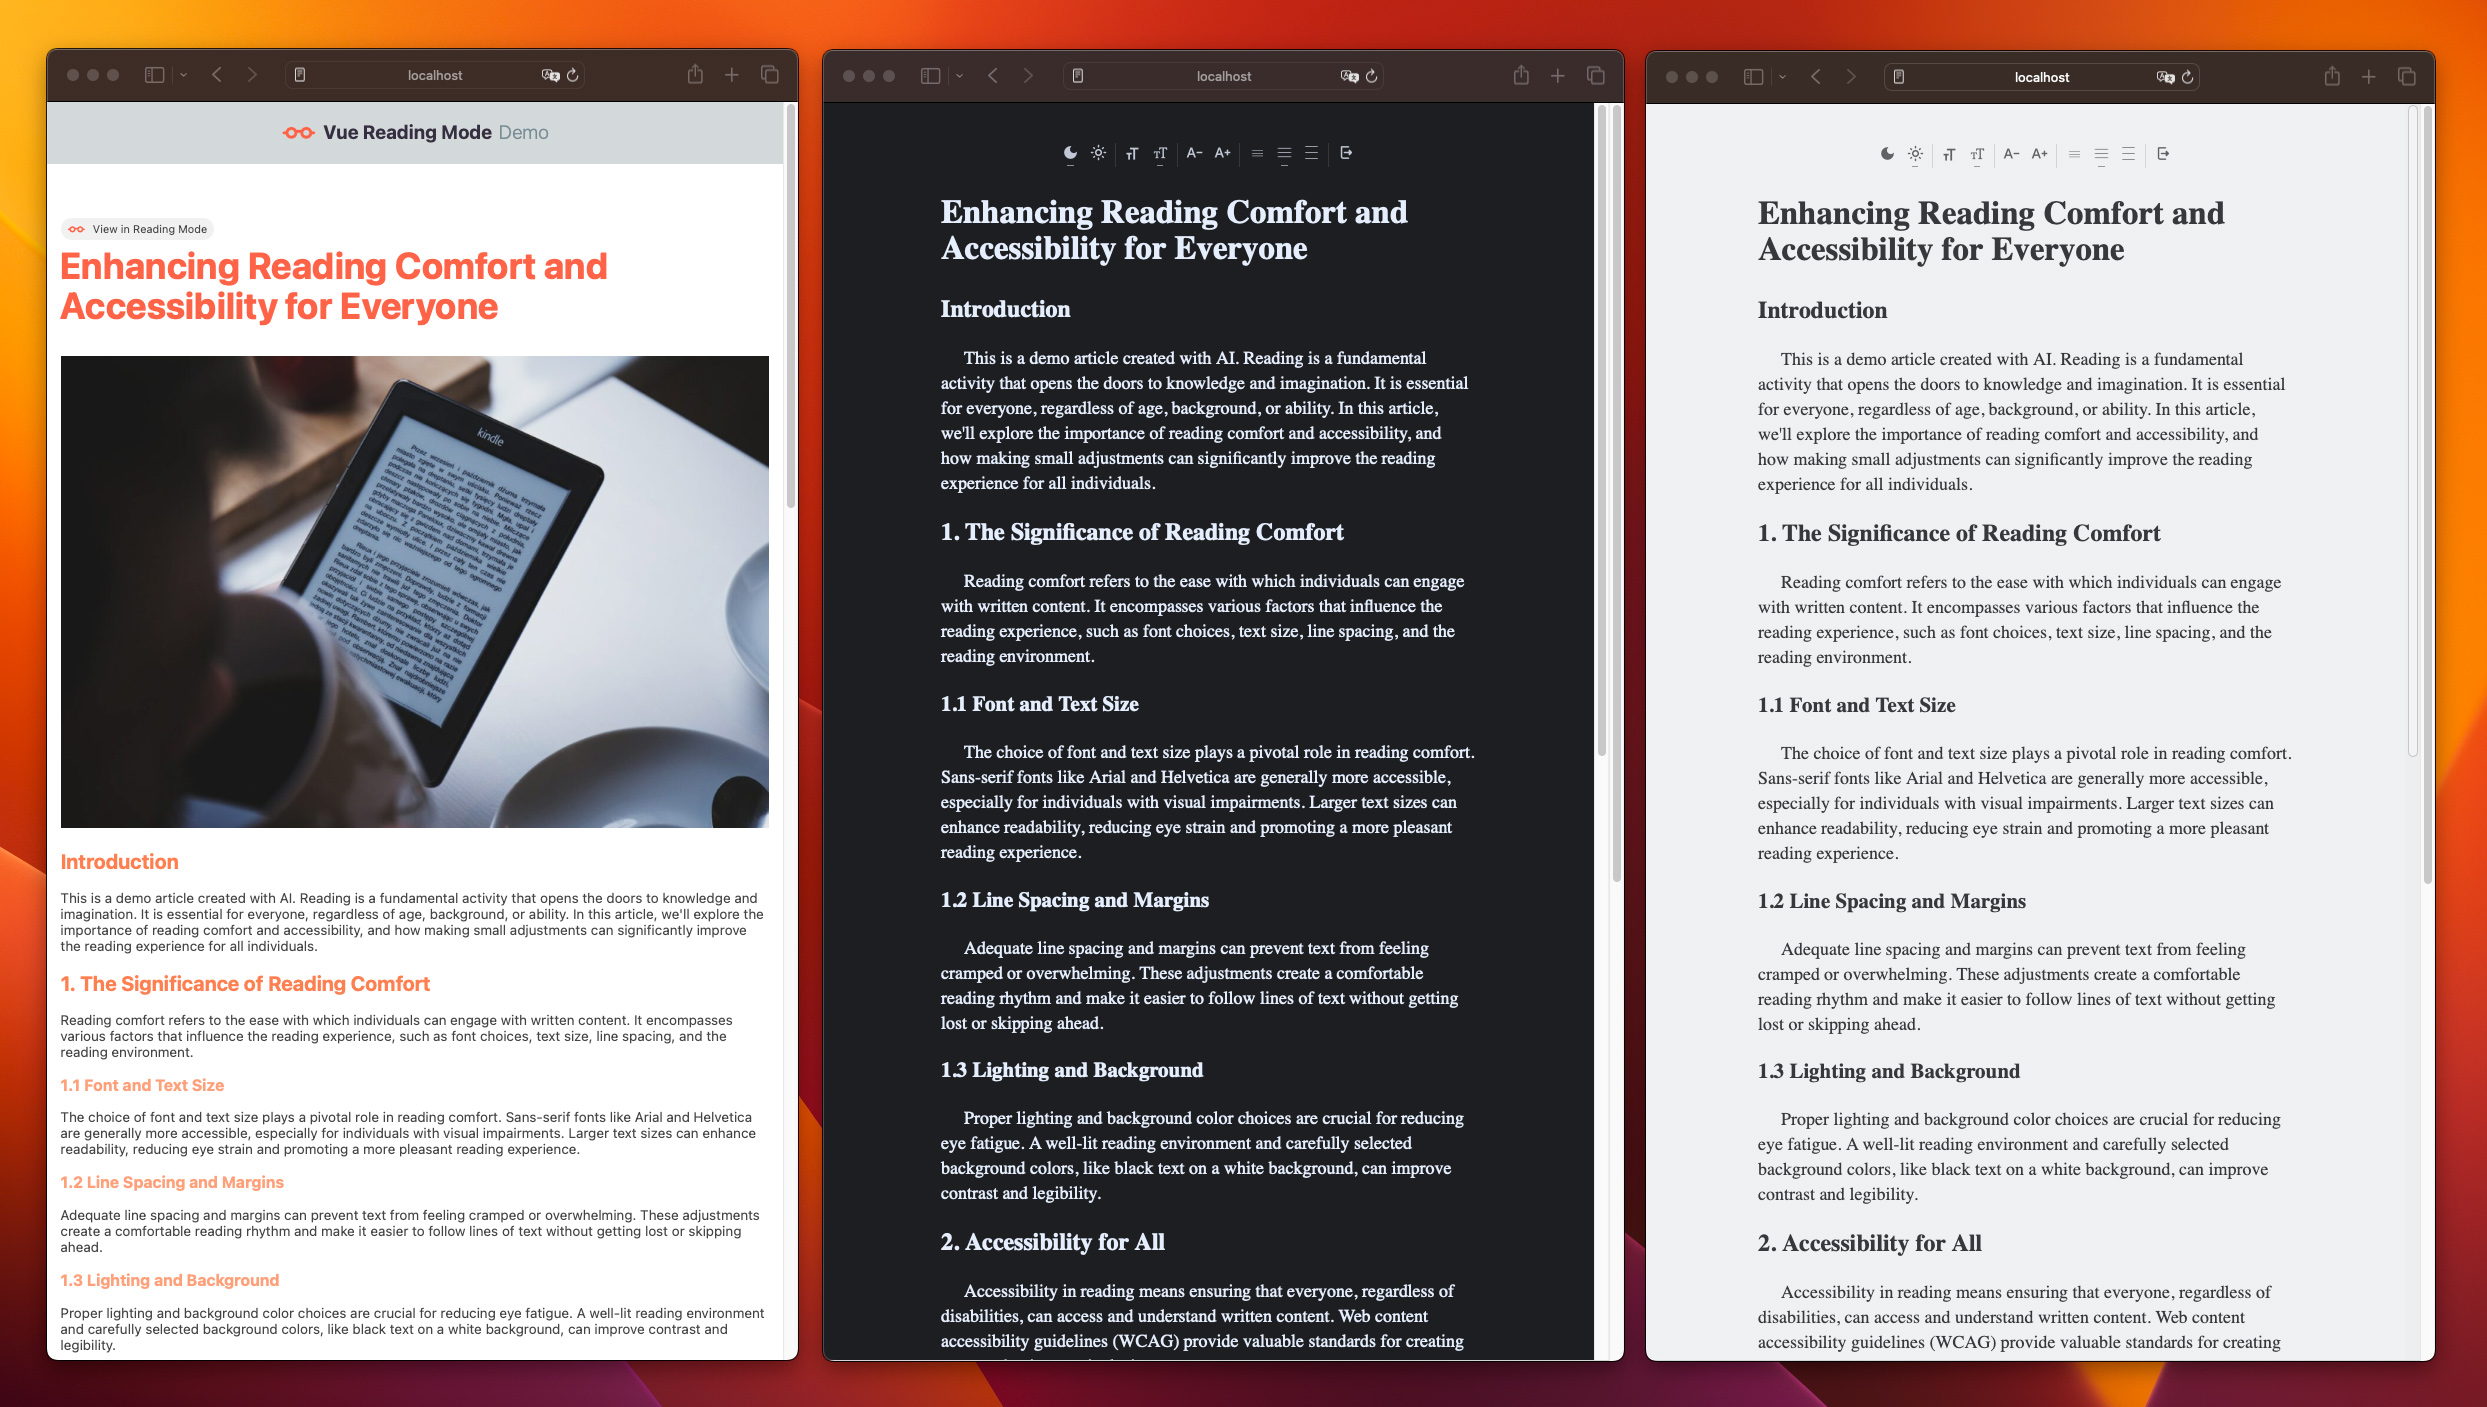
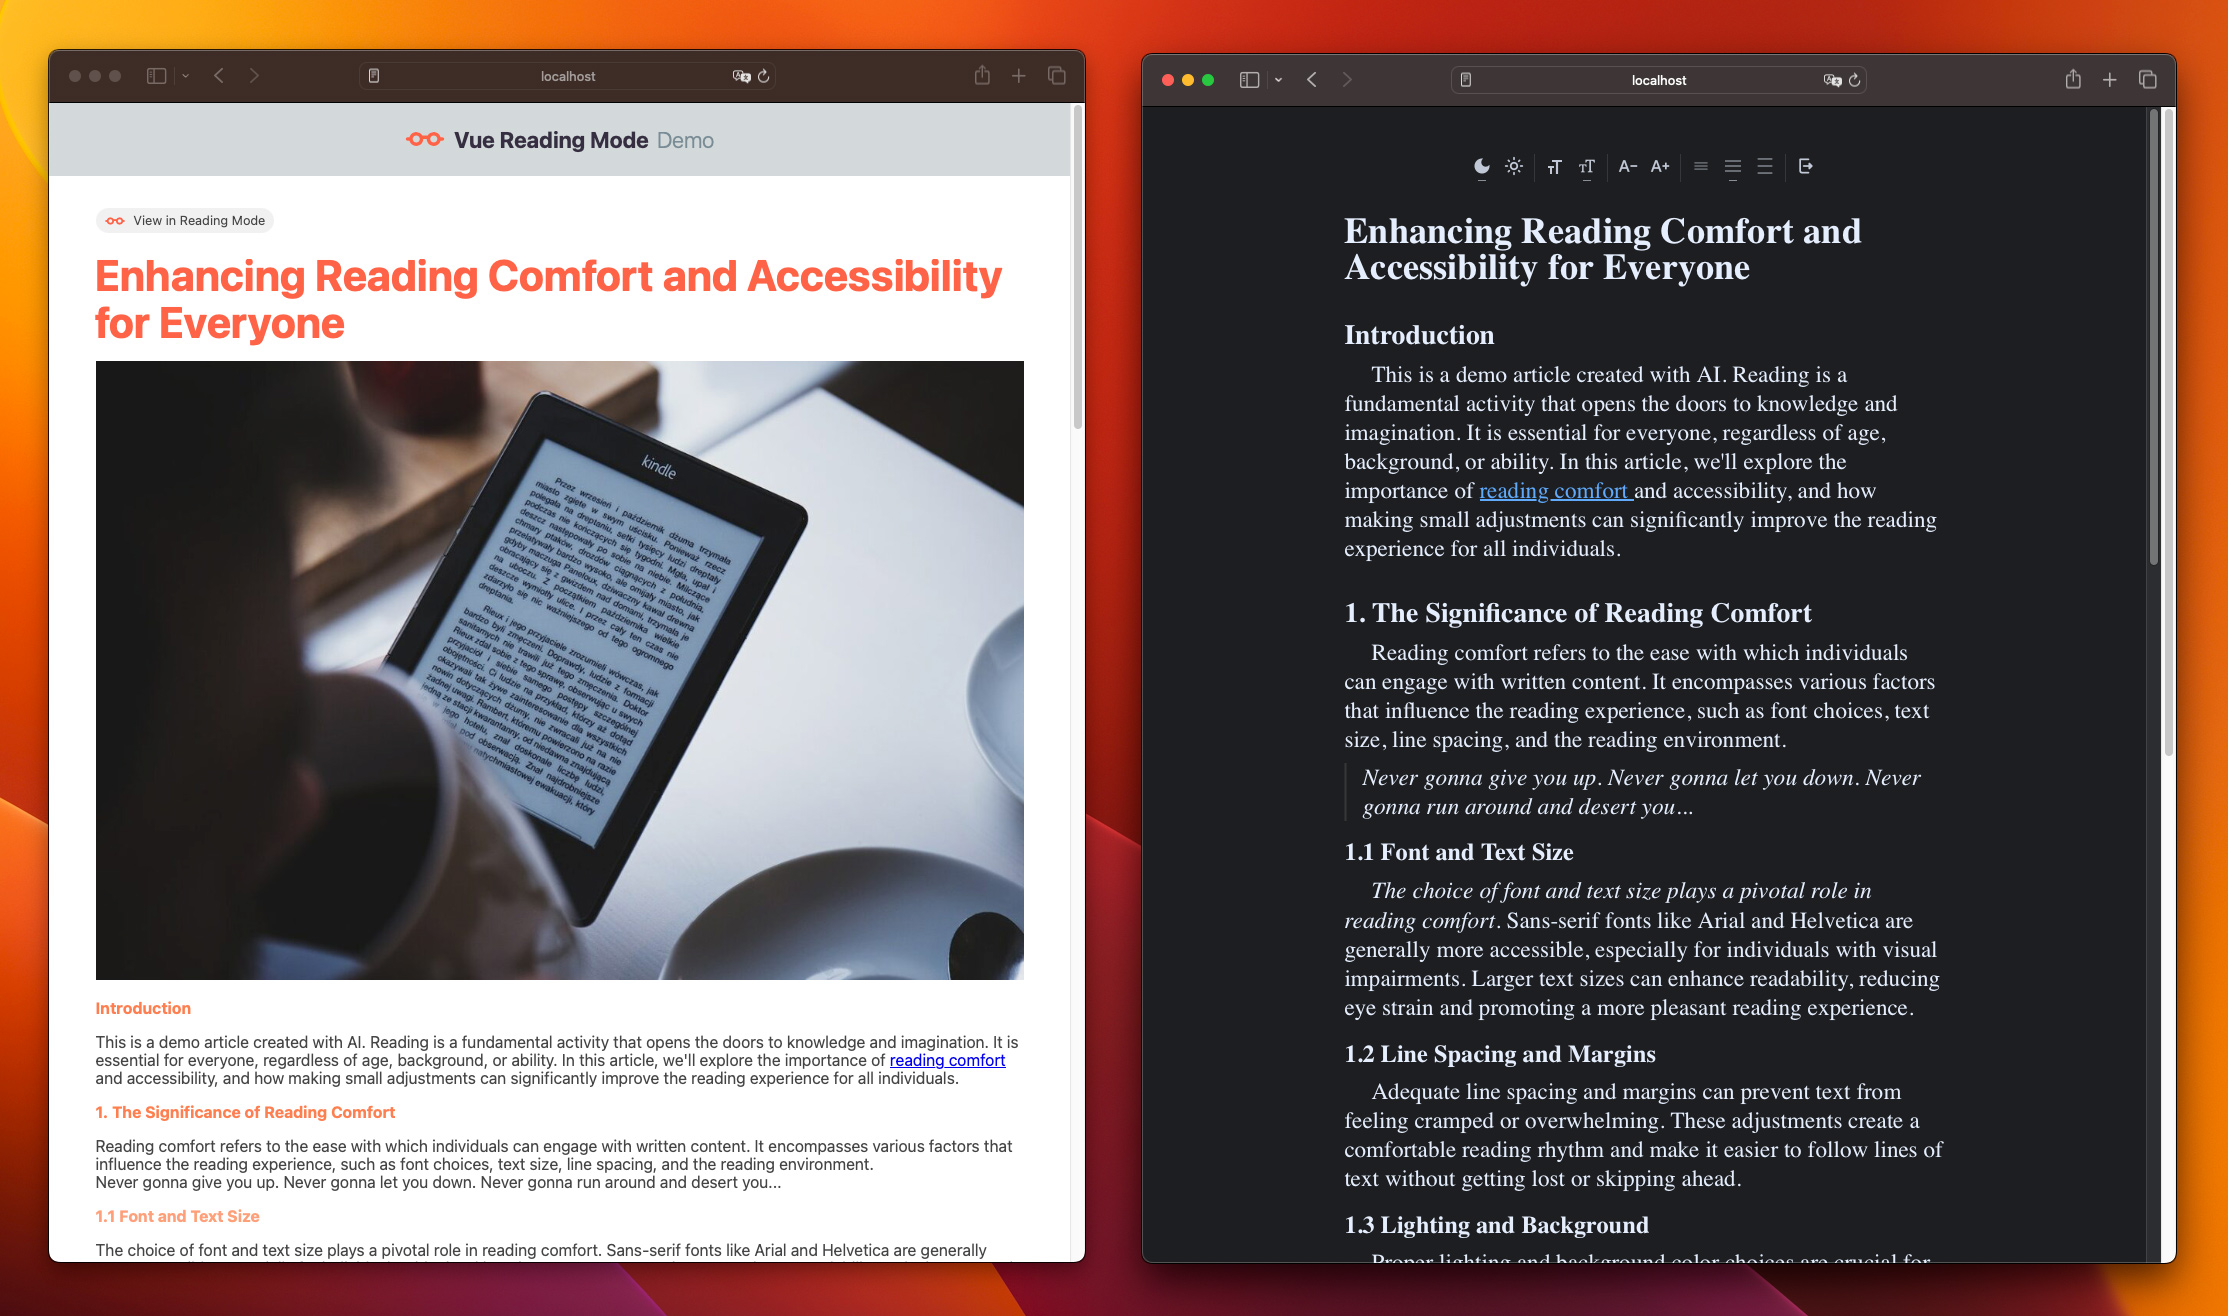
tiny adjustments

diff --git a/src/components/vueReadingMode.vue b/src/components/vueReadingMode.vue
@@ -52,15 +52,19 @@
                 <svg v-if="!fullscreen" xmlns="http://www.w3.org/2000/svg" width="20" height="20" viewBox="0 0 20 20"><path fill="currentColor" d="M7 2H2v5l1.8-1.8L6.5 8L8 6.5L5.2 3.8L7 2zm6 0l1.8 1.8L12 6.5L13.5 8l2.7-2.7L18 7V2h-5zm.5 10L12 13.5l2.7 2.7L13 18h5v-5l-1.8 1.8l-2.7-2.8zm-7 0l-2.7 2.7L2 13v5h5l-1.8-1.8L8 13.5L6.5 12z"/></svg>
                 <svg v-if="fullscreen" xmlns="http://www.w3.org/2000/svg" width="20" height="20" viewBox="0 0 20 20"><path fill="currentColor" d="M3.4 2L2 3.4l2.8 2.8L3 8h5V3L6.2 4.8L3.4 2zm11.8 4.2L18 3.4L16.6 2l-2.8 2.8L12 3v5h5l-1.8-1.8zM4.8 13.8L2 16.6L3.4 18l2.8-2.8L8 17v-5H3l1.8 1.8zM17 12h-5v5l1.8-1.8l2.8 2.8l1.4-1.4l-2.8-2.8L17 12z"/></svg>
             </div>-->
-            <div @click="readingModeToggle()"
-            :class="{'reader-mode--toggle': !readingmode}">
+            <div @click="readingModeToggle()">
                 <svg v-if="readingmode" xmlns="http://www.w3.org/2000/svg" width="20" height="20" viewBox="0 0 24 24"><path fill="currentColor" fill-rule="evenodd" d="M15 3.001a1 1 0 1 1 0 2H6v13a1 1 0 0 0 1 1h8a1 1 0 1 1 0 2H7a3 3 0 0 1-3-3v-14a1 1 0 0 1 1-1h10Zm1.707 5.293A1 1 0 0 0 15 9v2H9a1 1 0 1 0 0 2h6v2a1 1 0 0 0 1.707.707l3-3a1 1 0 0 0 0-1.414l-3-3Z" clip-rule="evenodd"/></svg>
-                <svg v-if="!readingmode" style="color:tomato" xmlns="http://www.w3.org/2000/svg" width="24" height="24" viewBox="0 0 24 24"><path fill="currentColor" fill-rule="evenodd" d="M7 14a2 2 0 1 0 0-4a2 2 0 0 0 0 4Zm3.465-4a4.002 4.002 0 0 0-7.339 1H2a1 1 0 1 0 0 2h1.126A4.002 4.002 0 0 0 11 12h2a4 4 0 0 0 7.874 1H22a1 1 0 1 0 0-2h-1.126a4.002 4.002 0 0 0-7.339-1h-3.07ZM15 12a2 2 0 1 0 4 0a2 2 0 0 0-4 0Z" clip-rule="evenodd"/></svg>
-                <p v-if="!readingmode">View in Reading Mode</p>
             </div>
         </nav>
         <article>
-            <slot/>
+            <div @click="readingModeToggle()"
+            :class="{'reader-mode--toggle': !readingmode}">
+                <svg v-if="!readingmode" style="color:tomato" xmlns="http://www.w3.org/2000/svg" width="24" height="24" viewBox="0 0 24 24"><path fill="currentColor" fill-rule="evenodd" d="M7 14a2 2 0 1 0 0-4a2 2 0 0 0 0 4Zm3.465-4a4.002 4.002 0 0 0-7.339 1H2a1 1 0 1 0 0 2h1.126A4.002 4.002 0 0 0 11 12h2a4 4 0 0 0 7.874 1H22a1 1 0 1 0 0-2h-1.126a4.002 4.002 0 0 0-7.339-1h-3.07ZM15 12a2 2 0 1 0 4 0a2 2 0 0 0-4 0Z" clip-rule="evenodd"/></svg>
+                <p v-if="!readingmode">View in Reading Mode</p>
+            </div>
+            <!-- Main Content -->
+                <slot/> 
+            <!-- Main Content -->
         </article>
         <nav class="reader-mode--nav">
             <div @click="readingModeToggle()"
@@ -77,7 +81,7 @@
             return {
                 readingmode: false,
                 fontFamily:"serif",
-                theme: "light",
+                theme: "dark",
                 fontsize: 1,
                 widthMultiplier: 1,
                 lineHeight: 1.4,
@@ -138,7 +142,7 @@
     min-width: 300px;
     
     font-size: calc(var(--vrm-font-size) * var(--vrm-font-multiplier)) !important;
-    font-family: var(--vrm-font-family);
+    font-family: var(--vrm-font-family) !important;
     font-size-adjust: .5;
     font-synthesis: none;
     text-rendering: optimizeLegibility;
@@ -152,7 +156,7 @@
     margin:0 !important;
     padding:3rem 2rem !important;
 
-    z-index: 999999999;
+    z-index: 999999999 !important;
     overflow-y: auto;
     
     display: flex !important;
@@ -164,6 +168,7 @@
     max-width: calc(599px * var(--vrm-width-multiplier) )!important;
     height: auto;
     position: static !important;
+    border-bottom:1px dashed #999 !important;
 }
 @media screen and (width < 600px) {
     .reader-mode {
@@ -195,21 +200,20 @@
 .reader-mode--light a, .reader-mode--light a:hover {
   font-weight: 500;
   color: #1673d7 !important;
-  text-decoration: underline;
+  text-decoration: underline !important;
 }
 
 /* Fullscreen Mode */
 .reader-mode--fullscreen {
     position: fixed !important;
-    inset: 0;
-    z-index: 999999999;
-    overflow-y: scroll;
+    inset: 0 !important;
+    z-index: 999999999 !important;
+    overflow-y: scroll !important;
 }
 
 /* Reading Mode Toggle */
 .reader-mode--toggle {
-    position: absolute !important;
-    margin-top:-2rem ;
+    margin-top: 2rem;
     padding: .1rem .5rem;
     display: inline-flex;
     align-items: center;
@@ -234,19 +238,22 @@
 
 /* Element options */
 .reader-mode p {
-    text-indent: 1.7rem;
+    text-indent: 1.7rem !important;
 }
 .reader-mode * :not(h1, h2, h3, h4, h5, h6) {
     font-size: calc(1.3rem * var(--vrm-font-multiplier)) !important
 }
 .reader-mode h1 {
-    font-size: calc(2.1rem * var(--vrm-font-multiplier)) !important
+    font-size: calc(2.1rem * var(--vrm-font-multiplier)) !important;
+    margin:2rem 0 1rem 0 !important;
 }
 .reader-mode h2 {
-    font-size: calc(1.6rem * var(--vrm-font-multiplier)) !important
+    font-size: calc(1.6rem * var(--vrm-font-multiplier)) !important;
+    margin:2rem 0 .5rem 0 !important;
 }
 .reader-mode h3, .reader-mode h4,.reader-mode h5,.reader-mode h6 {
-    font-size: calc(1.4rem * var(--vrm-font-multiplier)) !important
+    font-size: calc(1.4rem * var(--vrm-font-multiplier)) !important;
+    margin:1rem 0 .5rem 0 !important;
 }
 .reader-mode img, picture, video, audio, source, canvas,
              form, input, textarea, select, button, search,
@@ -259,11 +266,9 @@
     overflow:auto !important;
 }
 
-
 /* Navigation */
 .reader-mode .reader-mode--nav {
     position: relative !important;
-    top:0;
     display: flex;
     flex-direction: row;
     gap: .5rem;
@@ -306,4 +311,20 @@
     margin: 0;
     background: #77777740 !important;
 }
+
+/* Other adjustments */
+.reader-mode ol, ul {
+    padding-left:2rem !important;
+    margin: 1rem 0 !important
+}
+.reader-mode ul {list-style:disc !important;}
+.reader-mode ol {list-style:decimal !important;}
+.reader-mode blockquote{
+    border-left:.15rem solid #66666650 !important;
+    margin: .5rem 0 !important;
+    padding:0 1rem !important;
+    font-style: italic !important;
+    position: relative;
+}
+.reader-mode q {font-style: italic !important;}
 </style>

diff --git a/src/App.vue b/src/App.vue
@@ -6,12 +6,23 @@
   </header>
   <main>
     <vue-reading-mode>
-        <testarticle2></testarticle2>
-      </vue-reading-mode>
+      <testarticle2></testarticle2>
+    </vue-reading-mode>
 
-      <vue-reading-mode>
-        <testarticle></testarticle>
-      </vue-reading-mode>
+    <vue-reading-mode>
+      <testarticle></testarticle>
+    </vue-reading-mode>
+
+    <div class="copyright">
+      <a href="https://github.com/BoraKucukkara/vue-reading-mode" title="Bora Kucukkara / vue-reading-mode on Github">
+        <svg height="24" aria-hidden="true" viewBox="0 0 16 16" version="1.1" width="24" data-view-component="true" class="octicon octicon-mark-github v-align-middle">
+          <path fill-rule="evenodd" d="M8 0C3.58 0 0 3.58 0 8c0 3.54 2.29 6.53 5.47 7.59.4.07.55-.17.55-.38 0-.19-.01-.82-.01-1.49-2.01.37-2.53-.49-2.69-.94-.09-.23-.48-.94-.82-1.13-.28-.15-.68-.52-.01-.53.63-.01 1.08.58 1.23.82.72 1.21 1.87.87 2.33.66.07-.52.28-.87.51-1.07-1.78-.2-3.64-.89-3.64-3.95 0-.87.31-1.59.82-2.15-.08-.2-.36-1.02.08-2.12 0 0 .67-.21 2.2.82.64-.18 1.32-.27 2-.27.68 0 1.36.09 2 .27 1.53-1.04 2.2-.82 2.2-.82.44 1.1.16 1.92.08 2.12.51.56.82 1.27.82 2.15 0 3.07-1.87 3.75-3.65 3.95.29.25.54.73.54 1.48 0 1.07-.01 1.93-.01 2.2 0 .21.15.46.55.38A8.013 8.013 0 0016 8c0-4.42-3.58-8-8-8z"></path>
+        </svg>
+      </a>
+      <a href="https://www.borakucukkara.com/" title="Bora Kucukkara personal web site">
+        <img src="https://www.borakucukkara.com/borakucukkara.png" width="24">
+      </a>
+    </div>
   </main>
 </template>
 <script>
@@ -29,22 +40,20 @@ export default {
 <style>
 header {
   background:rgb(211, 217, 218);
-  display: flex;
+  display: grid;
   width: 100%;
-  justify-content: center;
-  align-items: center;
 }
 .logo {
-  width: max-content;
-margin: 1rem 2rem;
-font-size: 1.4rem;
-font-weight: 700;
-color: #352f41;
-display: flex;
-align-items: center;
-flex-direction: row;
+  width: auto;
+  margin: 1rem 2rem;
+  font-size: 1.4rem;
+  font-weight: 700;
+  color: #352f41;
+  display: flex;
+  align-items: center;
+  justify-content: center;
+  flex-direction: row;
 }
-.logo * {margin: 0; line-height: 1;}
 .logo svg {
   color:tomato;
   padding-right: .5rem;
@@ -58,9 +67,12 @@ header nav {
   margin: 2rem 2rem;
 }
 main > * {
-  margin:6rem 1rem;
-  border-bottom: 1px solid #ccc;
   max-width: 960px;
+}
+main article {
+  border-bottom:1px solid #999;
+  padding:0 0 2rem 0;
+  margin:0 1rem 1rem 1rem;
 }
 #app {
   width: 100%;
@@ -72,4 +84,8 @@ main > * {
 #app h1 {color:tomato}
 #app h2 {color:coral}
 #app h3 {color:lightsalmon}
+
+.copyright { height: 2rem; width: 100%; text-align:center;}
+.copyright a {padding: .3rem; opacity: .7; transition: all .3s;}
+.copyright a:hover {opacity: 1}
 </style>

diff --git a/src/components/testarticle2.vue b/src/components/testarticle2.vue
@@ -11,11 +11,12 @@
 <h2>1. The Significance of Reading Comfort</h2>
 <p>
   Reading comfort refers to the ease with which individuals can engage with written content. It encompasses various factors that influence the reading experience, such as font choices, text size, line spacing, and the reading environment.
+  <blockquote>Never gonna give you up. Never gonna let you down. Never gonna run around and desert you...</blockquote>
 </p>
 
 <h3>1.1 Font and Text Size</h3>
 <p>
-  The choice of font and text size plays a pivotal role in reading comfort. Sans-serif fonts like Arial and Helvetica are generally more accessible, especially for individuals with visual impairments. Larger text sizes can enhance readability, reducing eye strain and promoting a more pleasant reading experience.
+  <q>The choice of font and text size plays a pivotal role in reading comfort. </q> Sans-serif fonts like Arial and Helvetica are generally more accessible, especially for individuals with visual impairments. Larger text sizes can enhance readability, reducing eye strain and promoting a more pleasant reading experience.
 </p>
 
 <h3>1.2 Line Spacing and Margins</h3>
@@ -36,6 +37,12 @@
 <h3>2.1 Screen Readers and Alt Text</h3>
 <p>
   Screen readers are essential tools for individuals with visual impairments. Including descriptive alt text for images and providing well-structured content enables screen readers to convey information effectively.
+  <ol>
+    <li>Lorem ipsum dolor.</li>
+    <li>Sit amet consectetur.</li>
+    <li>Adipisicing elit.</li>
+  </ol>
+
 </p>
 
 <h3>2.2 Read-Aloud Software</h3>

diff --git a/src/style.css b/src/style.css
@@ -1,3 +1,50 @@
+/* http://meyerweb.com/eric/tools/css/reset/ 
+   v2.0 | 20110126
+   License: none (public domain)
+*/
+
+html, body, div, span, applet, object, iframe,
+h1, h2, h3, h4, h5, h6, p, blockquote, pre,
+a, abbr, acronym, address, big, cite, code,
+del, dfn, em, img, ins, kbd, q, s, samp,
+small, strike, strong, sub, sup, tt, var,
+b, u, i, center,
+dl, dt, dd, ol, ul, li,
+fieldset, form, label, legend,
+table, caption, tbody, tfoot, thead, tr, th, td,
+article, aside, canvas, details, embed, 
+figure, figcaption, footer, header, hgroup, 
+menu, nav, output, ruby, section, summary,
+time, mark, audio, video {
+	margin: 0;
+	padding: 0;
+	border: 0;
+	font-size: 100%;
+	font: inherit;
+	vertical-align: baseline;
+}
+/* HTML5 display-role reset for older browsers */
+article, aside, details, figcaption, figure, 
+footer, header, hgroup, menu, nav, section {
+	display: block;
+}
+ol, ul {
+	list-style: none;
+}
+blockquote, q {
+	quotes: none;
+}
+blockquote:before, blockquote:after,
+q:before, q:after {
+	content: '';
+	content: none;
+}
+table {
+	border-collapse: collapse;
+	border-spacing: 0;
+}
+
+
 :root {
   font-family: Inter, system-ui, Avenir, Helvetica, Arial, sans-serif;
   font-weight: 400;
@@ -11,4 +58,8 @@ body {
 h1 {
   font-size: 2.7em;
   line-height: 1.1;
+}
+h1,h2,h3,h4,h5,h6 {
+  margin:1rem 0;
+  font-weight: bold;
 }
